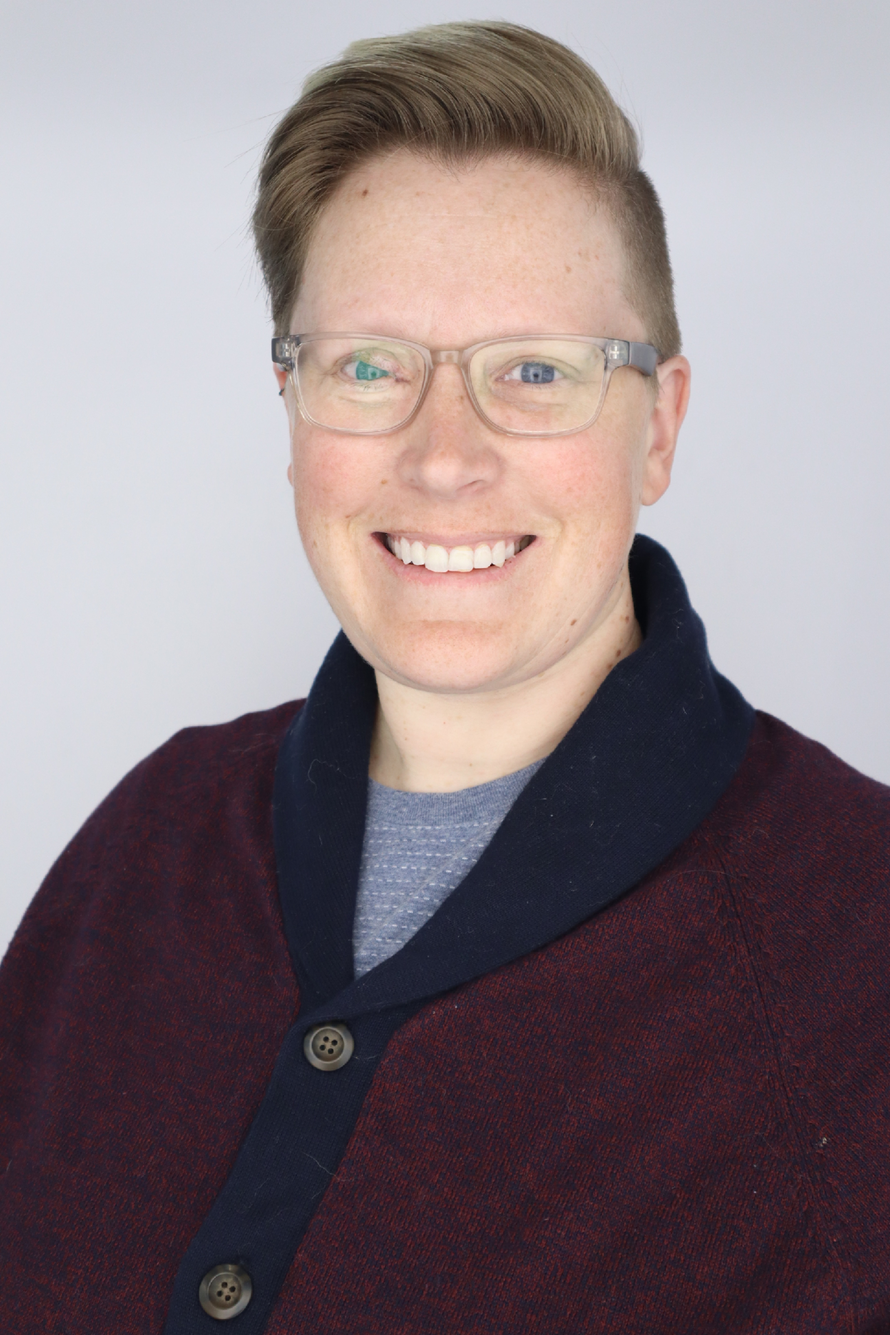
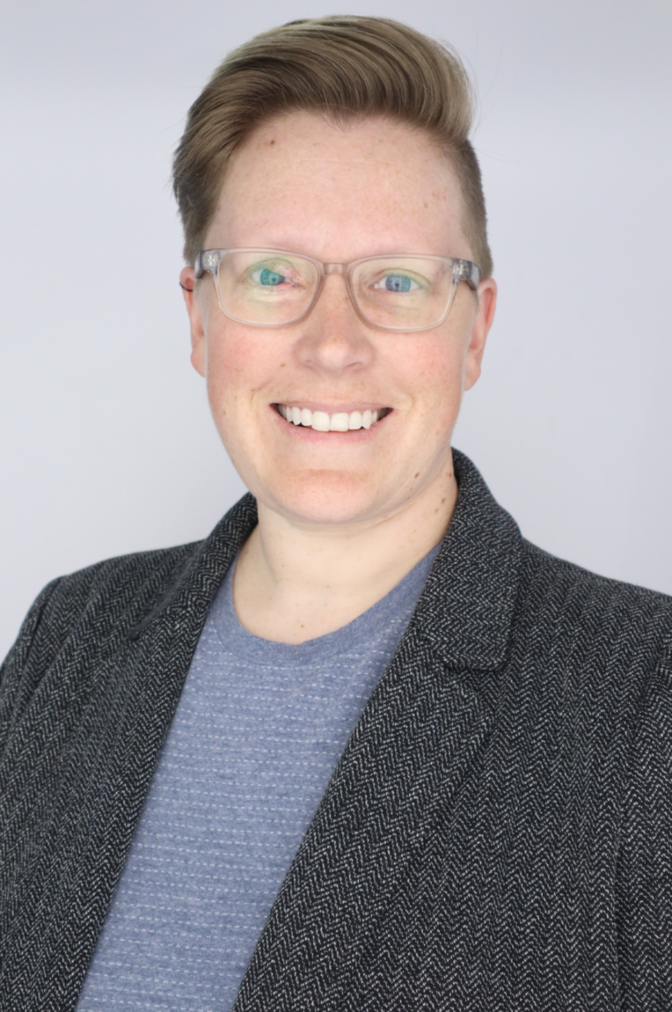
commit

diff --git a/content/_index.md b/content/_index.md
@@ -3,7 +3,7 @@ title: Rebecca Frost-Brewer
 subtitle: An aspiring data-scientist
 description: Thank you for visiting! As I teach myself R and Python, I will be sharing examples of my projects here; as I prepare for a career in data science, I hope this portfolio demonstrates my proficiency, creativity, and commitment.
 images:
-  - img/rfb-headshot-blazer.jpg
+  - img/rfb-headshot-blazer-smaller.jpg
 image_left: false
 text_align_left: true
 show_action_link: true
